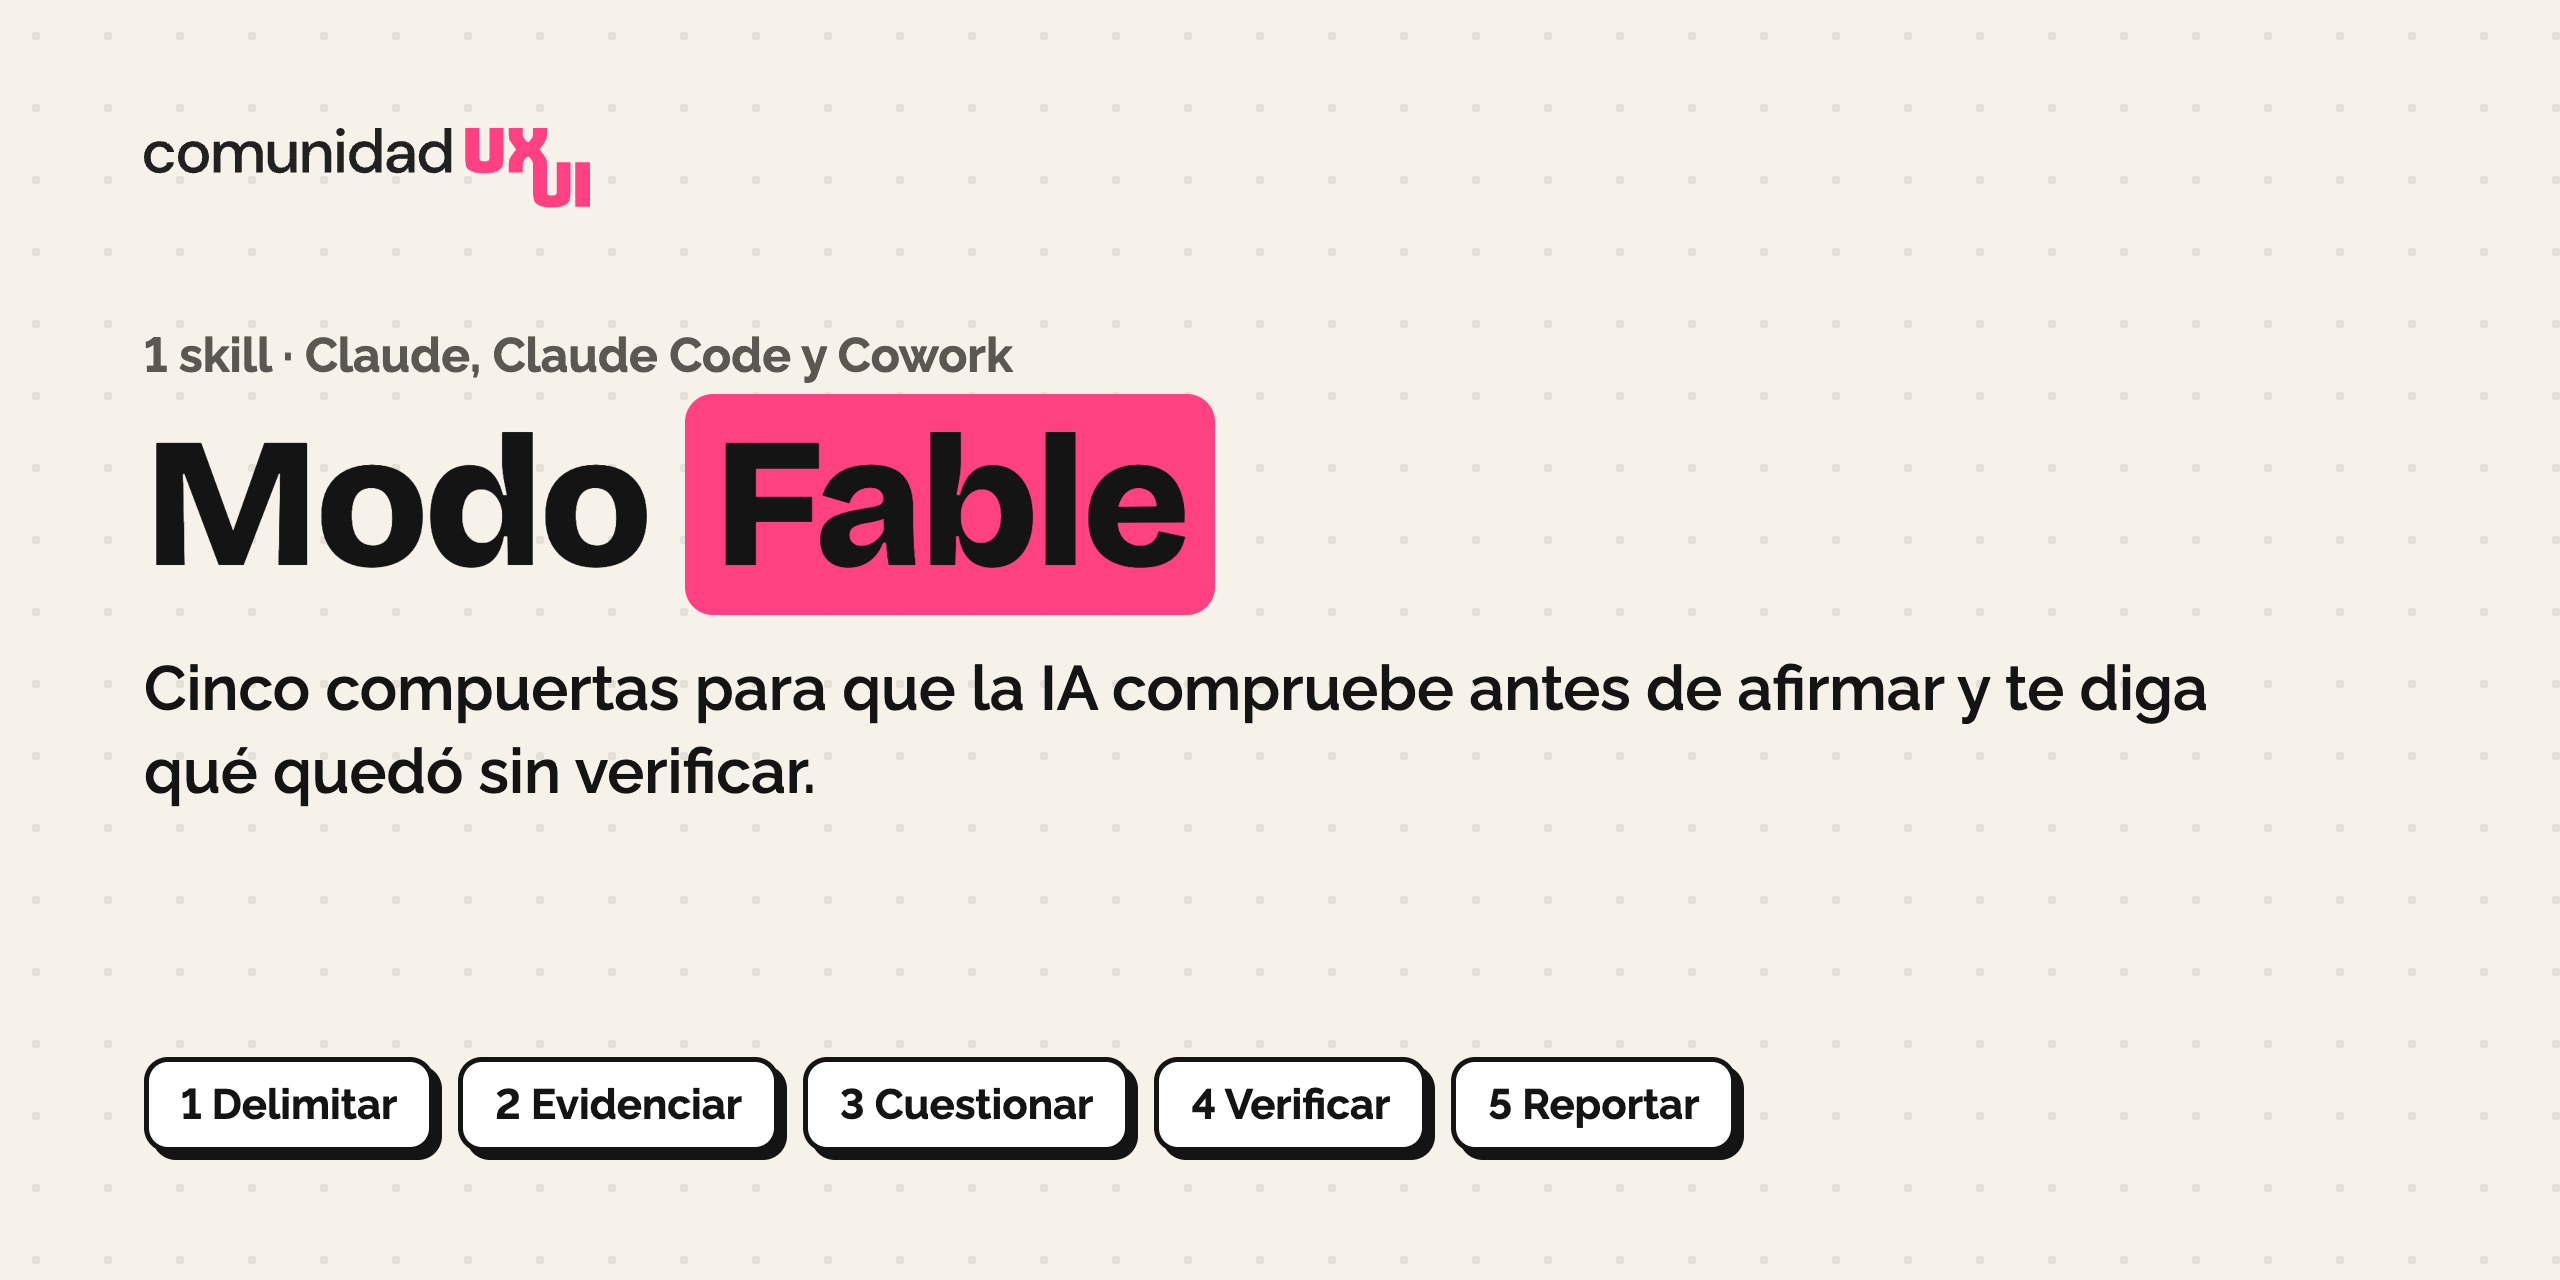
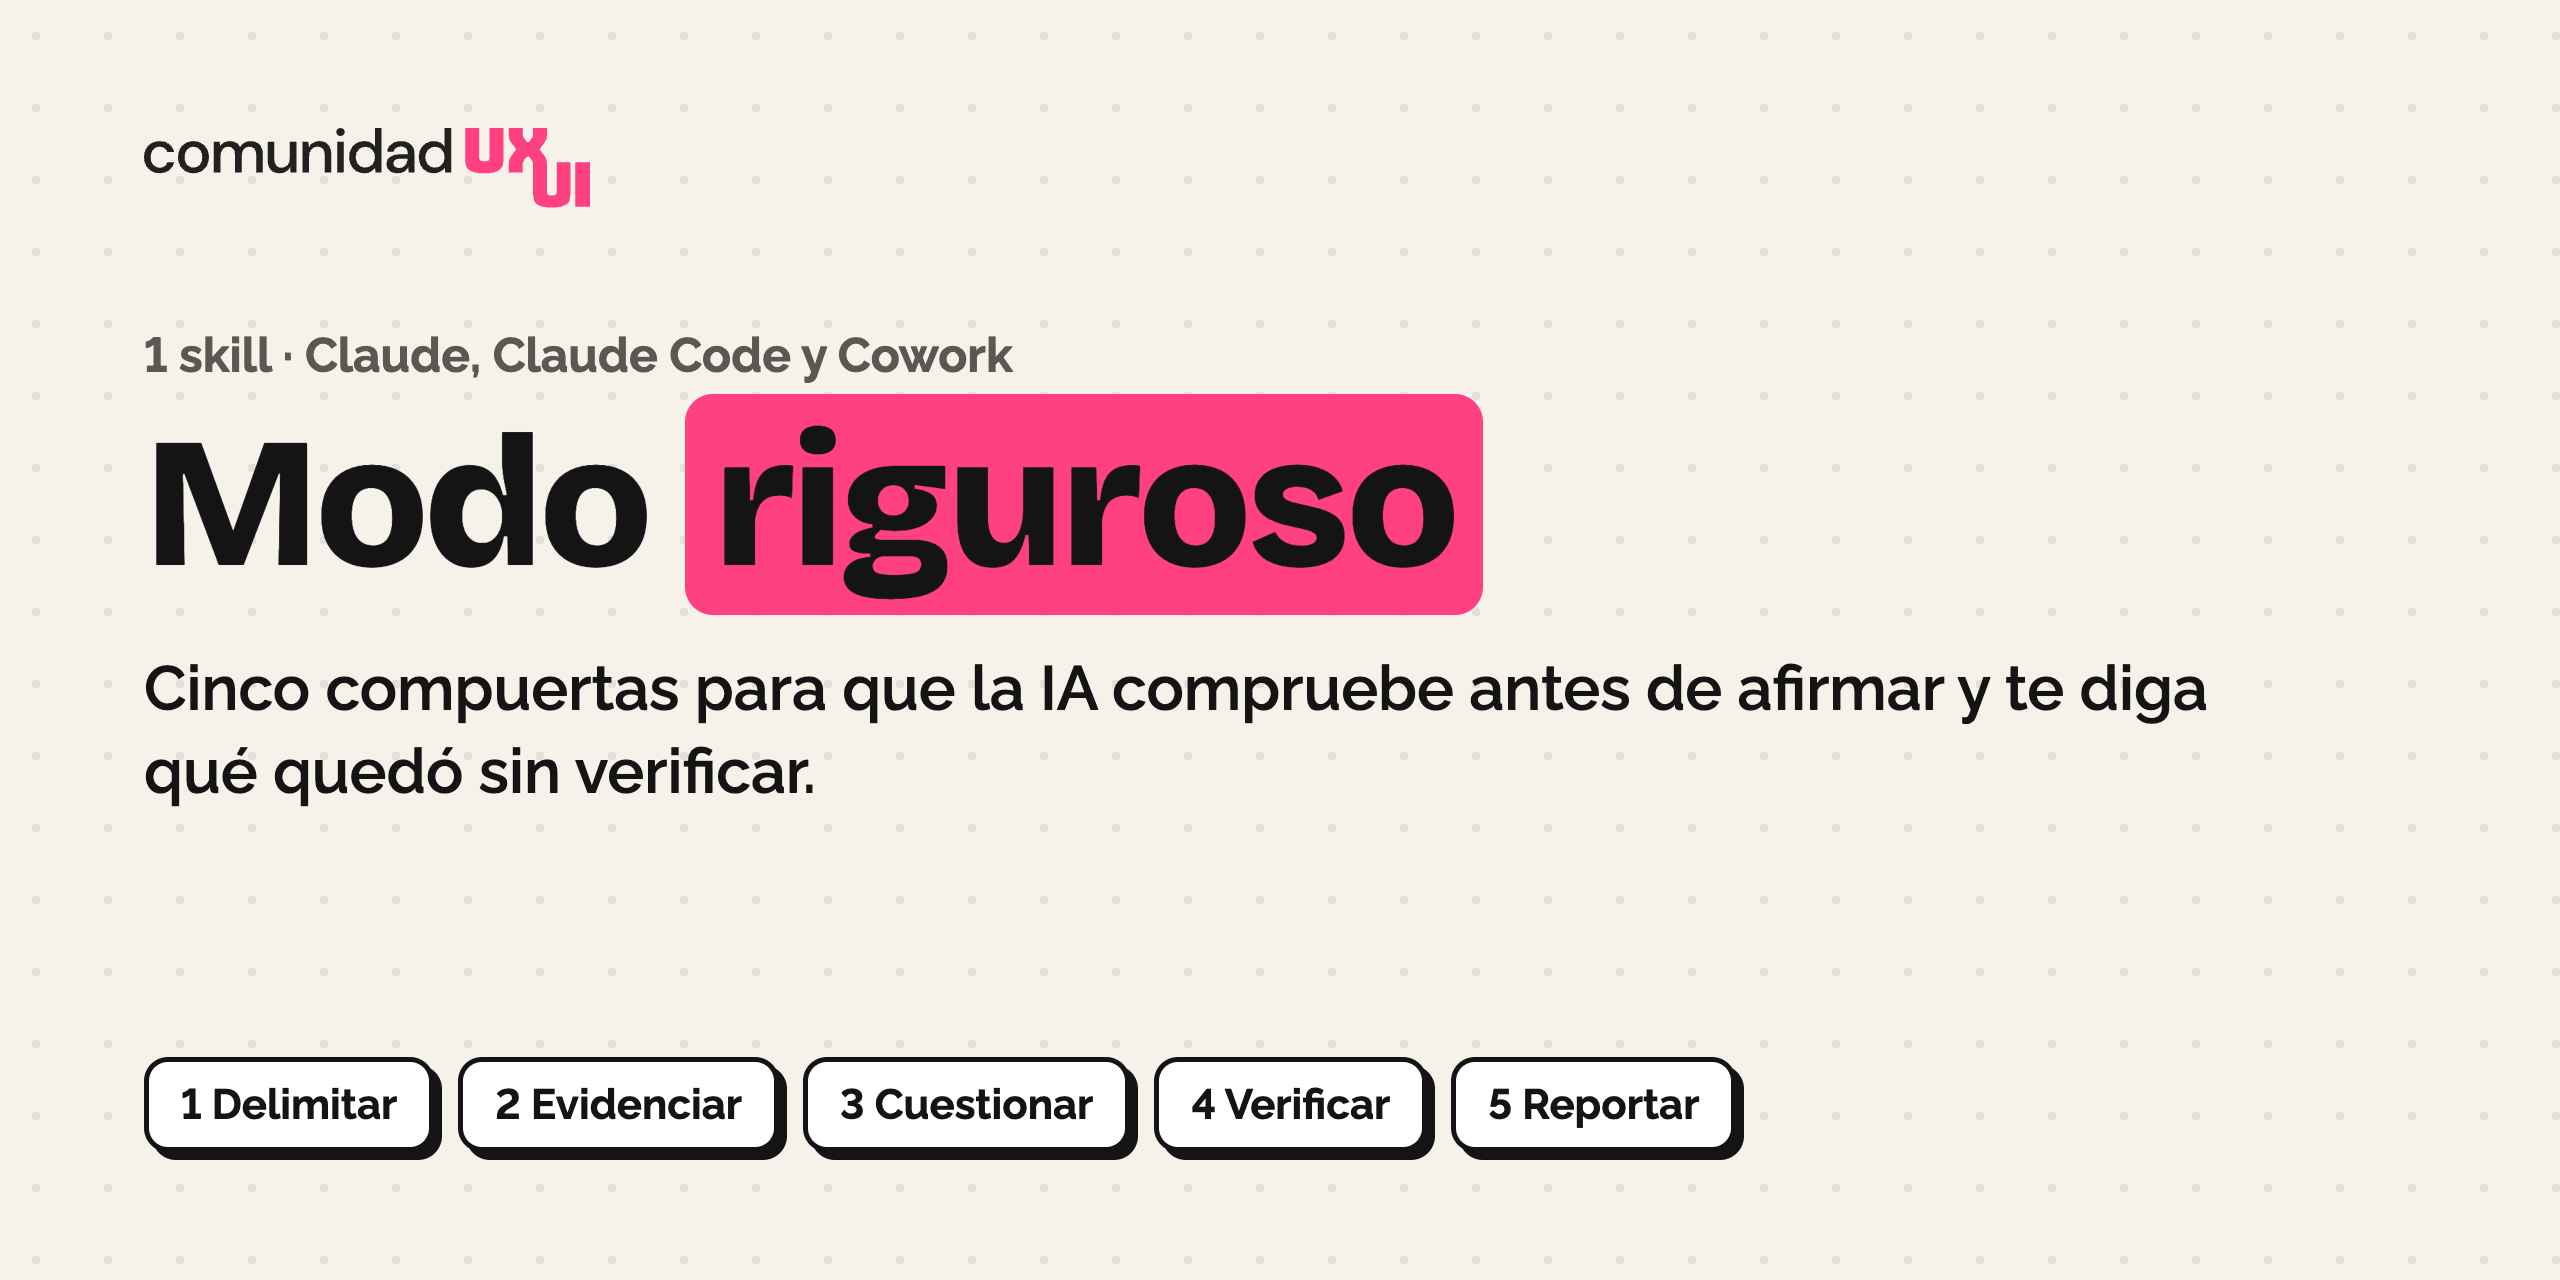
Modo Fable pasa a llamarse Modo riguroso; invitación a la comunidad destacada

Changed region(s): [[0.2812, 0.2812, 0.5938, 0.5]]

diff --git a/README.md b/README.md
@@ -1,6 +1,6 @@
-<p align="center"><img src="docs/banner.png" alt="Modo Fable: cinco compuertas para tareas difíciles" width="100%"></p>
+<p align="center"><img src="docs/banner.png" alt="Modo riguroso: cinco compuertas para tareas difíciles" width="100%"></p>
 
-# Modo Fable
+# Modo riguroso
 
 **Un método de trabajo para que la IA haga bien las tareas difíciles a la primera:** las que tienen varios pasos, datos que todavía nadie miró o un error cuya primera explicación puede estar equivocada.
 
@@ -27,13 +27,13 @@ Sirve igual para diseño: planificar un research, revisar un informe antes de en
 
 ## Cómo se usa
 
-Se activa sola cuando la tarea tiene muchas capas. También puedes pedirla: *«modo Fable»*, *«piensa esto primero»*, *«baja el ritmo y haz esto bien»*.
+Se activa sola cuando la tarea tiene muchas capas. También puedes pedirla: *«modo riguroso»*, *«piensa esto primero»*, *«baja el ritmo y haz esto bien»*.
 
 ## Instalación
 
 ### En claude.ai y en Cowork
 
-1. Descarga `fable-mode.zip` desde **[Releases](https://github.com/CUXUI/modo-fable/releases/latest)**.
+1. Descarga `modo-riguroso.zip` desde **[Releases](https://github.com/CUXUI/modo-riguroso/releases/latest)**.
 2. En Claude, entra a **Personalizar → Skills → + → Subir una skill** y súbelo tal como lo descargaste.
 3. Abre un chat nuevo y pide lo que necesitas.
 
@@ -42,16 +42,16 @@ Guía paso a paso con capturas: **[cómo subir una skill a claude.ai](NOTION_LIN
 ### En Claude Code
 
 ```
-/plugin marketplace add CUXUI/modo-fable
-/plugin install modo-fable@modo-fable
+/plugin marketplace add CUXUI/modo-riguroso
+/plugin install modo-riguroso@modo-riguroso
 ```
 
-Después pide lo que necesitas o llama la skill directo: `/fable-mode`.
+Después pide lo que necesitas o llama la skill directo: `/modo-riguroso`.
 
 ### En Codex, Cursor, Gemini CLI y otros agentes
 
 ```bash
-npx skills add CUXUI/modo-fable
+npx skills add CUXUI/modo-riguroso
 ```
 
 Necesita Node.js 22.20 o superior. Si tu agente no instala skills, deja el repositorio en tu carpeta de trabajo y pídele que lea el `SKILL.md` de la carpeta `skills/` y lo siga.
@@ -59,7 +59,7 @@ Necesita Node.js 22.20 o superior. Si tu agente no instala skills, deja el repos
 ## Qué hay adentro
 
 ```
-skills/fable-mode/
+skills/modo-riguroso/
 └── SKILL.md   las cinco compuertas y los hábitos permanentes
 ```
 
@@ -73,9 +73,12 @@ skills/fable-mode/
 
 El rigor también se entrena. Lo practicamos en **[Comunidad UX/UI](https://www.skool.com/comunidaduxui/about)** revisando trabajos reales con método.
 
+<p align="center"><a href="https://www.skool.com/comunidaduxui/about"><img src="docs/cta-comunidad.png" alt="Súmate a Comunidad UX/UI" width="100%"></a></p>
+
 ¿Prefieres empezar por correo? Suscríbete a **[Minuto UX](https://comunidad-uxui.kit.com/fb40f8e711)**, el newsletter de Comunidad UX/UI.
 
-**Más skills de Comunidad UX/UI:** [Auditoría UX con IA](https://github.com/CUXUI/auditoria-ux-con-ia) · [Diseño guiado con IA](https://github.com/CUXUI/diseno-guiado-con-ia) · [Excalidraw UX](https://github.com/CUXUI/excalidraw-ux) · [Crea tu asesor](https://github.com/CUXUI/crea-tu-asesor) · [Ahorro de tokens](https://github.com/CUXUI/ahorro-de-tokens)
+<p align="center"><a href="https://comunidad-uxui.kit.com/fb40f8e711"><img src="docs/cta-minuto-ux.png" alt="Suscríbete a Minuto UX" width="100%"></a></p>
+
 
 ## Licencia
 

diff --git a/skills/modo-riguroso/SKILL.md b/skills/modo-riguroso/SKILL.md
@@ -1,13 +1,13 @@
 ---
-name: fable-mode
-description: Usar PROACTIVAMENTE en el momento en que se detecte que una tarea tiene muchas capas - múltiples pasos dependientes, incógnitas que podrían cambiar el enfoque, debugging donde la primera teoría podría estar equivocada, o cualquier cosa que necesite verificación antes de la entrega. Usar también cuando una tarea sigue fallando o estancándose, o cuando el usuario dice "modo Fable", "piensa como Fable", "usa la skill Fable", "usa el método Fable", "trabaja como Fable", "baja el ritmo y haz esto bien", "piensa esto primero" (o sus equivalentes en inglés: "fable mode", "think like Fable", "use the Fable skill", "use the Fable method", "work like Fable", "slow down and do this right", "think this through first"). Carga la disciplina de trabajo de Fable 5 (el loop de cinco compuertas más los hábitos permanentes) para que cualquier sesión, especialmente una corriendo en Opus 5, Opus 4.8 o Sonnet 5, la aplique.
+name: modo-riguroso
+description: Usar PROACTIVAMENTE cuando una tarea tiene muchas capas - múltiples pasos dependientes, incógnitas que podrían cambiar el enfoque, un error donde la primera explicación podría estar equivocada, o cualquier cosa que necesite verificación antes de la entrega. Usar también cuando una tarea sigue fallando o se estanca, o cuando la persona dice "modo riguroso", "hazlo con rigor", "baja el ritmo y haz esto bien", "piensa esto primero", "revisa antes de afirmar" (o en inglés: "rigorous mode", "slow down and do this right", "think this through first"). Carga un método de cinco compuertas más hábitos permanentes para trabajar con rigor.
 ---
 
-# El Método Fable
+# Modo riguroso
 
-La disciplina de trabajo de Fable 5, puesta por escrito para que cualquier modelo pueda ejecutarla. Un archivo de skill no puede transferir la inteligencia bruta de Fable, pero sí puede transferir cómo trabaja Fable: cómo delimita el alcance, reúne evidencia, ataca sus propias respuestas, verifica y reporta. Correr este loop en Opus o Sonnet hace que el resultado se parezca notablemente más al de Fable en planificación, debugging y revisión.
+Un método de trabajo puesto por escrito para que cualquier modelo de IA lo ejecute. Un archivo de skill no le agrega inteligencia al modelo, pero sí puede cambiar cómo trabaja: cómo delimita el alcance, reúne evidencia, ataca sus propias respuestas, verifica y reporta. Correr este loop hace que el resultado sea notablemente más confiable en planificación, búsqueda de errores y revisión.
 
-Una tarea difícil es cualquiera donde la primera idea podría estar equivocada: builds de múltiples pasos, debugging, investigación con afirmaciones, cualquier cosa que toque datos que todavía no se miraron. Para editar un solo archivo o una búsqueda simple, saltear las compuertas y hacer el trabajo directamente.
+Una tarea difícil es cualquiera donde la primera idea podría estar equivocada: trabajos de varios pasos, búsqueda de errores, investigación con afirmaciones, cualquier cosa que toque datos que todavía no se miraron. Para editar un solo archivo o una búsqueda simple, saltear las compuertas y hacer el trabajo directamente.
 
 ## El loop: cinco compuertas, en orden
 
